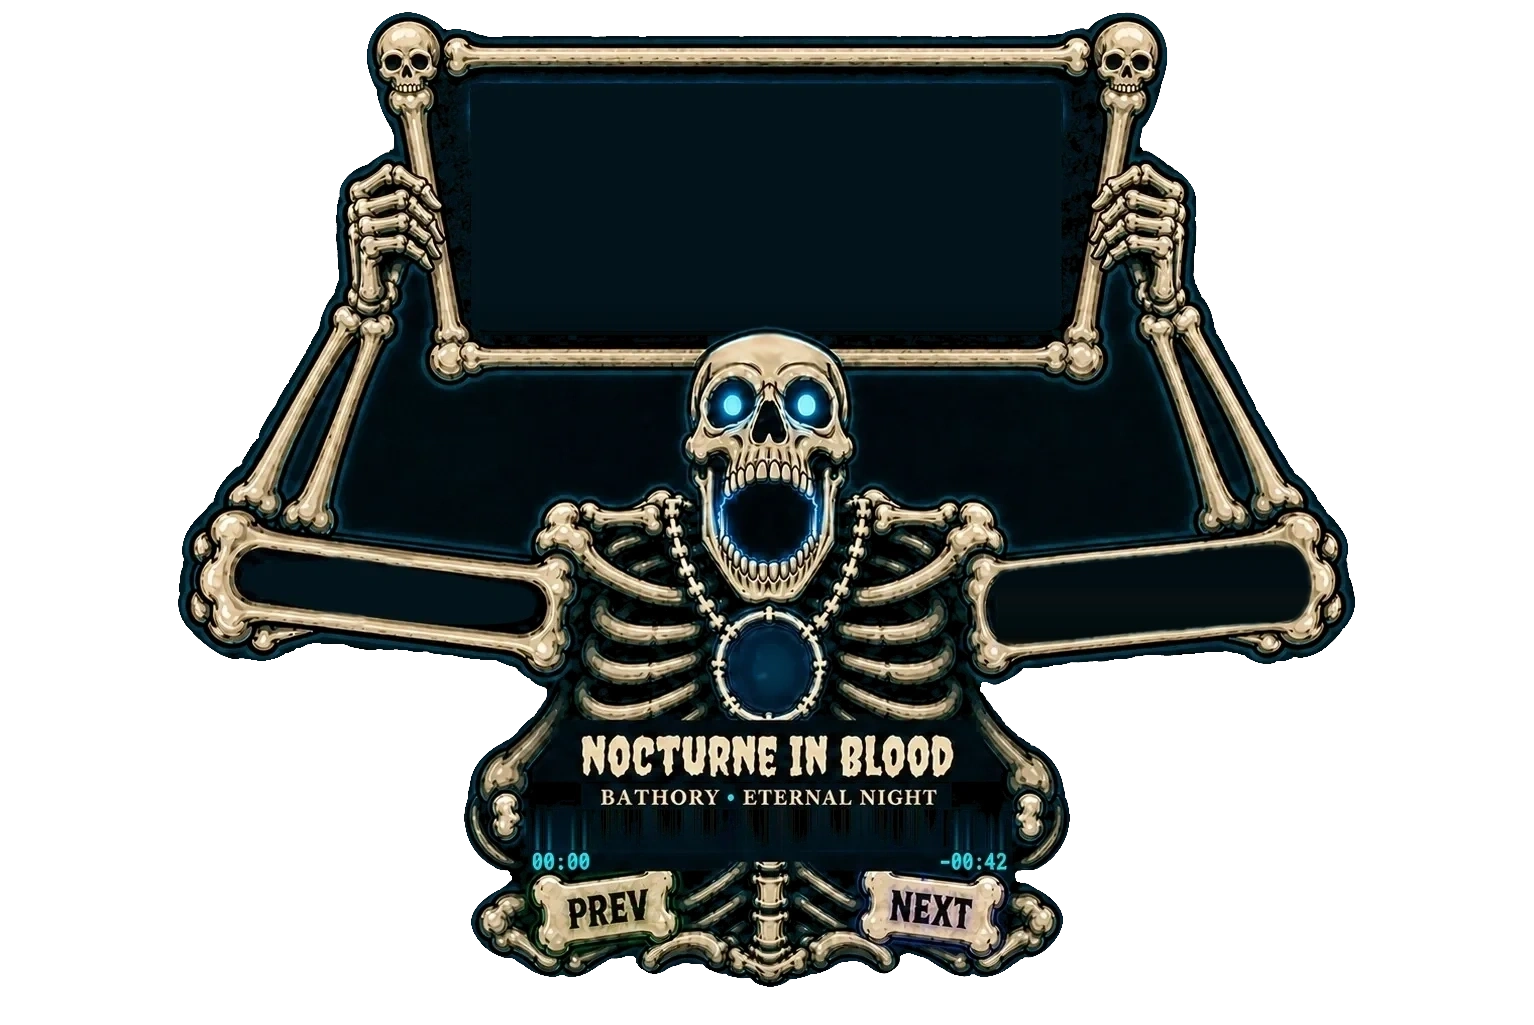
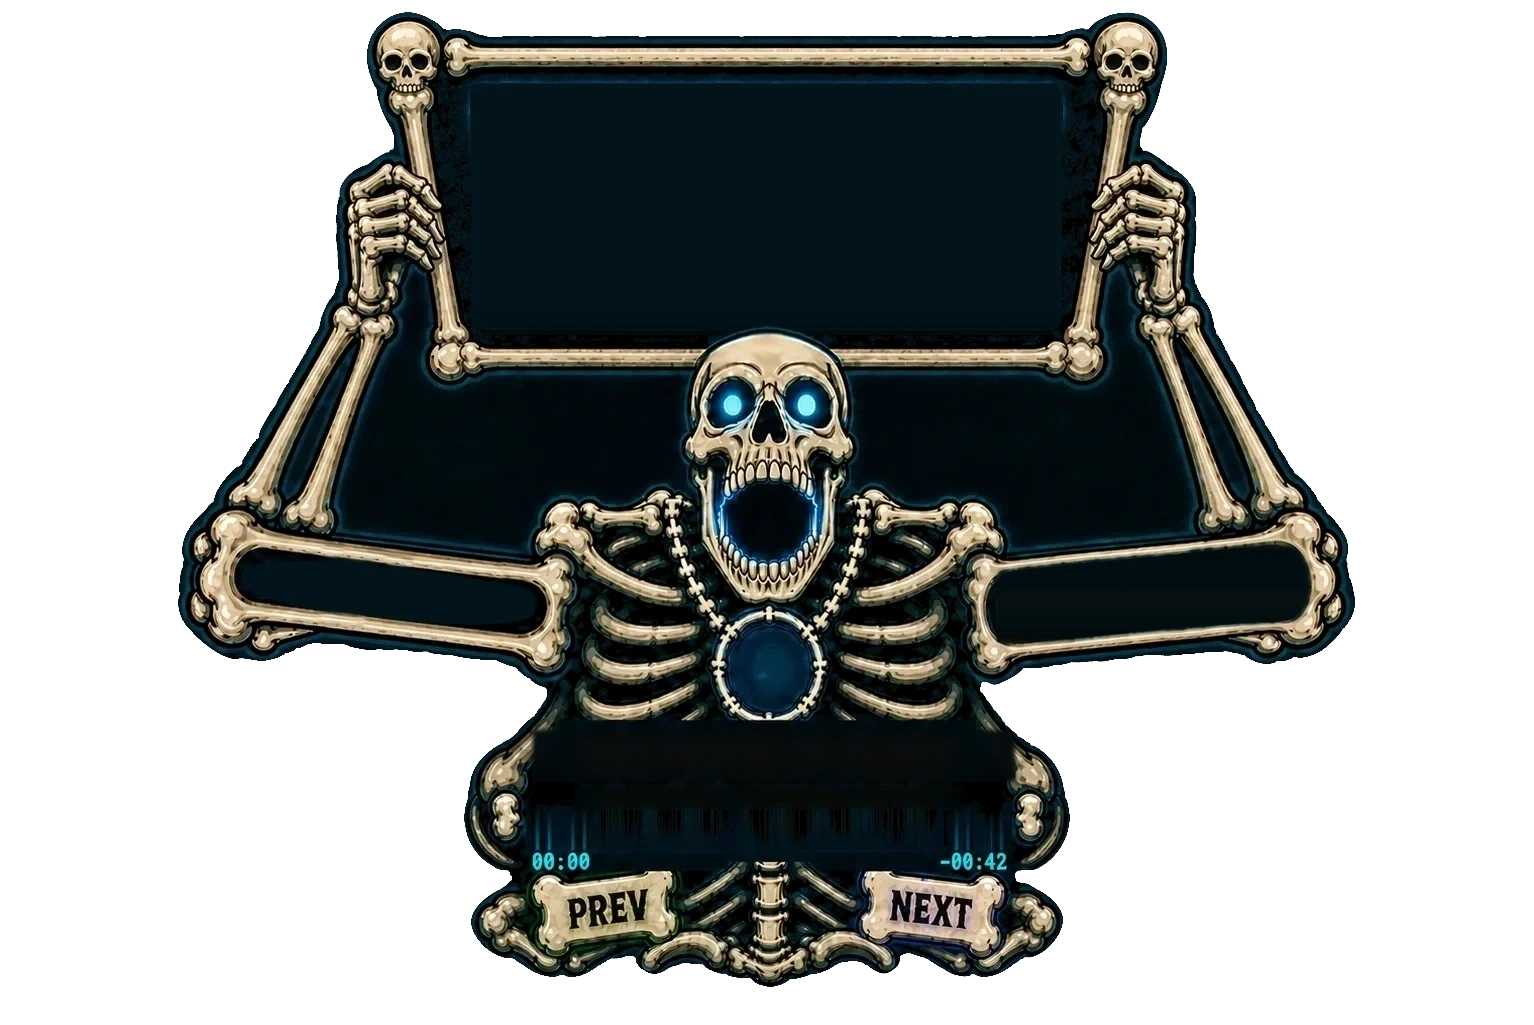
feat(skeleton): replace opaque backgrounds with text shadow glow effects
- Remove solid background color (#020c13) from track title element
- Remove border-radius styling from track title for cleaner appearance
- Add layered text-shadow glow to track title (0.3cqw and 0.8cqw blur with #01070bcc)
- Remove solid background color from artist name element
- Add layered text-shadow glow to artist name (0.25cqw and 0.6cqw blur with #01070bcc)
- Update skeleton frame asset to match new visual styling
- Creates more integrated, atmospheric text rendering by using shadow depth instead of opaque boxes

Changed region(s): [[0.337, 0.718, 0.6741, 0.7805]]

diff --git a/src/renderer/style.css b/src/renderer/style.css
@@ -1648,14 +1648,13 @@ input[type="range"]::-moz-range-thumb {
   justify-content: center;
   padding: 0 1%;
   overflow: hidden;
-  background: #020c13;
-  border-radius: 0.5cqw;
   color: #f4e9d0;
   font: 900 clamp(9px, 2.05cqw, 32px) Georgia, "Times New Roman", serif;
   letter-spacing: -0.04em;
   line-height: 1;
   white-space: nowrap;
   text-overflow: ellipsis;
+  text-shadow: 0 0 0.3cqw #01070b, 0 0 0.8cqw #01070bcc;
 }
 .skeleton-skin .sk-artist {
   position: absolute;
@@ -1667,11 +1666,11 @@ input[type="range"]::-moz-range-thumb {
   align-items: center;
   justify-content: center;
   overflow: hidden;
-  background: #020c13;
   color: #e8ddc2;
   font: bold clamp(6px, 1.45cqw, 23px) Georgia, serif;
   letter-spacing: 0.04em;
   white-space: nowrap;
+  text-shadow: 0 0 0.25cqw #01070b, 0 0 0.6cqw #01070bcc;
 }
 .skeleton-skin .sk-artist b { color: #11e2ff; }
 
